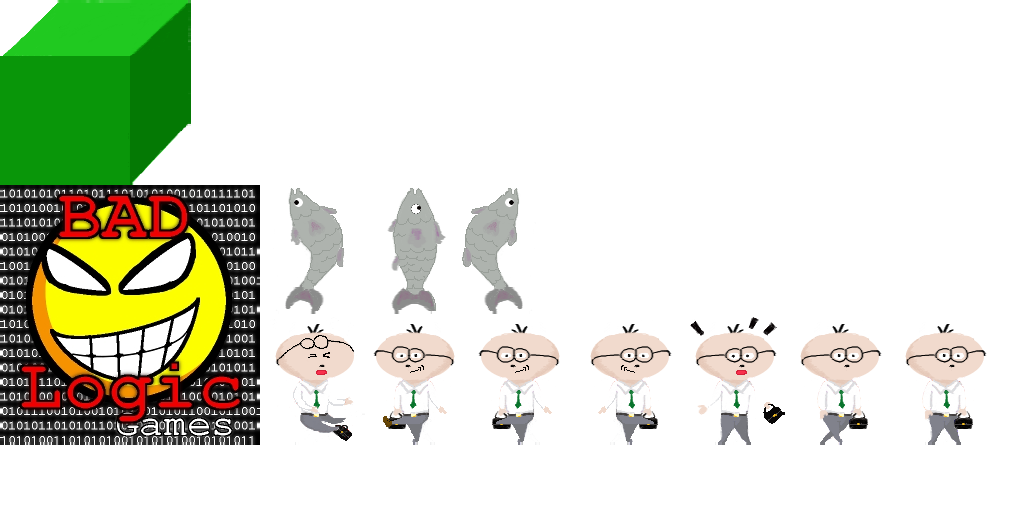
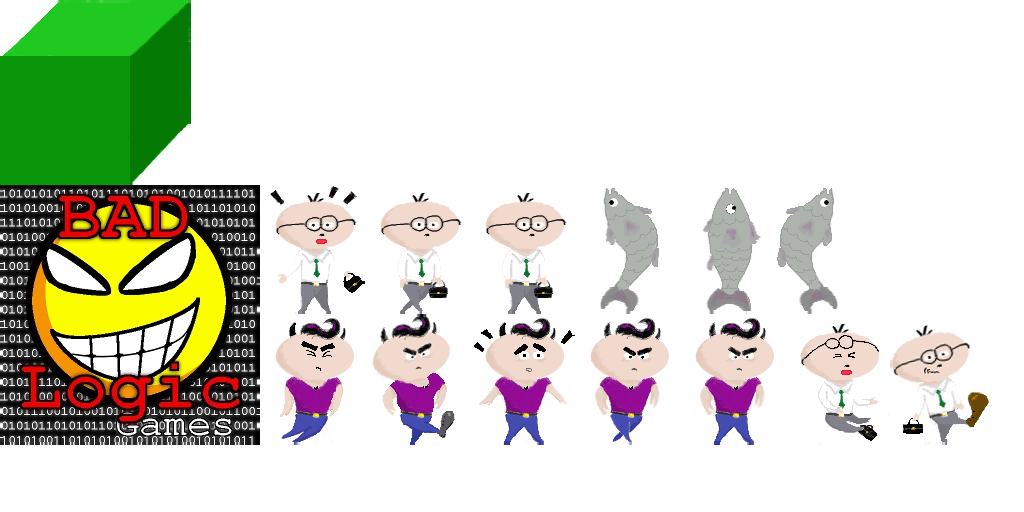
Kicks

Changed region(s): [[0.25, 0.375, 0.9688, 0.875], [0.25, 0.7188, 0.3438, 0.875]]

diff --git a/core/src/com/mygdx/game/model/Player.java b/core/src/com/mygdx/game/model/Player.java
@@ -3,6 +3,7 @@ package com.mygdx.game.model;
 import com.badlogic.gdx.graphics.g2d.Batch;
 import com.badlogic.gdx.graphics.g2d.Sprite;
 import com.badlogic.gdx.graphics.g2d.TextureRegion;
+import com.badlogic.gdx.graphics.glutils.ShapeRenderer;
 import com.badlogic.gdx.math.Intersector;
 import com.badlogic.gdx.math.Rectangle;
 import com.badlogic.gdx.math.Vector2;
@@ -32,14 +33,18 @@ public class Player extends Sprite implements MovementListener {
     private final Vector2 velocity = new Vector2();
     private final Vector2 speed = new Vector2(300, 300);
     private final Vector2 kickDirection = new Vector2(300, 300);
+    private final Vector2 kickedDirection = new Vector2(0,1);
     private final float gravity = 100;
 
     private int state;
     private float stateTime;
+    private boolean flipX = false;
 
-    private Rectangle kickRegion;
     private Rectangle intersection = new Rectangle();
     private Map<Integer, StateAnimation> animations;
+
+    private Rectangle kickBox= new Rectangle();
+    private Rectangle kickedBox= new Rectangle();
 
     public Player(Map<Integer, StateAnimation> animations) {
         super(ImageCache.getTexture("fish"));
@@ -47,7 +52,8 @@ public class Player extends Sprite implements MovementListener {
         this.animations = animations;
 
         setState(STAND);
-        kickRegion = new Rectangle(0, 0, getRegionWidth() / 2, getRegionHeight());
+
+        kickedBox.set(30, 30, 30, 30);
     }
 
     public void update(float delta) {
@@ -61,26 +67,38 @@ public class Player extends Sprite implements MovementListener {
             velocity.x = 0;
             velocity.y = 0;
         } else if (state == KICKED) {
-            velocity.x = 0;
-            velocity.y = 0;
+            velocity.x = kickedDirection.x;
+            velocity.y = kickedDirection.y;
         } else {
             if (movementController.isMovingLeft()) {
+                if (state == STAND) setState(WALK);
                 velocity.x = -speed.x;
                 velocity.y = 0;
+                kickDirection.set(-1, 0);
+                flipX = true;
             } else if (movementController.isMovingRight()) {
+                if (state == STAND) setState(WALK);
                 velocity.x = speed.x;
                 velocity.y = 0;
+                kickDirection.set(1, 0);
+                flipX = false;
             } else if (movementController.isMovingUp()) {
+                if (state == STAND) setState(WALK);
                 velocity.y = speed.y;
                 velocity.x = 0;
+                kickDirection.set(0, 1);
+                flipX = true;
             } else if (movementController.isMovingDown()) {
+                if (state == STAND) setState(WALK);
                 velocity.y = -speed.y;
                 velocity.x = 0;
+                kickDirection.set(0, -1);
+                flipX = false;
             } else {
+                if (state == WALK) setState(STAND);
                 velocity.x = 0;
                 velocity.y = 0;
             }
-            kickDirection.set(velocity.x, velocity.y);
         }
 
         setX(getX() + velocity.x * delta);
@@ -92,6 +110,7 @@ public class Player extends Sprite implements MovementListener {
     public void draw(Batch batch) {
         try {
             setRegion(getStateFrame());
+            setFlip(flipX, false);
         } catch (Exception e) {
             String message = String.format("Failed to obtain animation. State: %d; texture: %s",
                     state,
@@ -147,16 +166,16 @@ public class Player extends Sprite implements MovementListener {
         setState(FALL);
     }
 
-    public void kicked() {
-        setState(KICKED);
-    }
-
     public Vector2 getCollisionPoint() {
         return collisionPoint.set(getX() + getWidth() / 2, getY());
     }
 
     public boolean inRegion(Rectangle kickRegion) {
-        return Intersector.intersectRectangles(getBoundingRectangle(), kickRegion, intersection);
+        return Intersector.intersectRectangles(kickedBox, kickRegion, intersection);
+    }
+
+    private StateAnimation getCurrentAnimation() {
+        return animations.get(animations.containsKey(state) ? state : STAND);
     }
 
     @Override
@@ -167,11 +186,52 @@ public class Player extends Sprite implements MovementListener {
         }
     }
 
-    public Rectangle getKickRegion() {
-        return getBoundingRectangle();
+    public Vector2 getKickDirection() {
+        return kickDirection;
     }
 
-    private StateAnimation getCurrentAnimation() {
-        return animations.get(animations.containsKey(state) ? state : STAND);
+    public Rectangle getKickBox() {
+        if (kickDirection.x == -1) {
+            return kickBox.set(getX() + 13, getY(), 30, 30);
+        } else if (kickDirection.x == 1) {
+            return kickBox.set(getX() + getRegionWidth() - 50, getY(), 30, 30);
+        } else {
+            return kickBox.set(getX() + getRegionWidth() / 2 - 20, getY(), getRegionWidth() / 2 - 10, 20);
+        }
+    }
+
+
+    public Rectangle getKickedBox() {
+        return kickedBox.set(getX() + getRegionWidth() / 2 - 20, getY(), 40, 60);
+    }
+
+    public void kicked(Vector2 kickDirection) {
+        setState(KICKED);
+        if (kickDirection.x == -1) {
+            kickedDirection.x = -700;
+            kickedDirection.y = 0;
+            flipX = true;
+        } else if (kickDirection.x == 1) {
+            kickedDirection.x = 700;
+            kickedDirection.y = 0;
+            flipX = false;
+        } else if (kickDirection.y == 1) {
+            kickedDirection.x = 0;
+            kickedDirection.y = 700;
+            flipX = false;
+        } else if (kickDirection.y == -1) {
+            kickedDirection.x = 0;
+            kickedDirection.y = -700;
+            flipX = true;
+        }
+    }
+
+    public void debug(ShapeRenderer shapes) {
+        getKickBox();
+        getKickedBox();
+        shapes.setColor(1, 0, 0, 1);
+        shapes.rect(kickBox.getX(), kickBox.getY(), kickBox.getWidth(), kickBox.getHeight());
+        shapes.setColor(0, 0, 1, 1);
+        shapes.rect(kickedBox.getX(), kickedBox.getY(), kickedBox.getWidth(), kickedBox.getHeight());
     }
 }

diff --git a/core/src/com/mygdx/game/data/AnimationCache.java b/core/src/com/mygdx/game/data/AnimationCache.java
@@ -14,24 +14,24 @@ public class AnimationCache {
     public static final HashMap<Integer, StateAnimation> FISH_ANIMATION = new HashMap<Integer, StateAnimation>() {{
         put(Player.STAND, new StateAnimation("fish", 3, 0.1f, Animation.PlayMode.LOOP));
         put(Player.FALL, new StateAnimation("fish", 3, 0.1f, Animation.PlayMode.LOOP));
-        put(Player.KICKED, new StateAnimation("fish", 3, 0.1f, Animation.PlayMode.LOOP));
+        put(Player.KICKED, new StateAnimation("fish", 1, 0.2f, Animation.PlayMode.LOOP));
         put(Player.WALK, new StateAnimation("fish", 3, 0.1f, Animation.PlayMode.LOOP));
         put(Player.KICK, new StateAnimation("fish", 3, 0.1f, Animation.PlayMode.LOOP));
     }};
 
     public static final HashMap<Integer, StateAnimation> PLAYER1_ANIMATION = new HashMap<Integer, StateAnimation>() {{
-        put(Player.STAND, new StateAnimation("fish", 3, 0.1f, Animation.PlayMode.LOOP));
-        put(Player.FALL, new StateAnimation("fish", 3, 0.1f, Animation.PlayMode.LOOP));
-        put(Player.KICKED, new StateAnimation("fish", 3, 0.1f, Animation.PlayMode.LOOP));
-        put(Player.WALK, new StateAnimation("fish", 3, 0.1f, Animation.PlayMode.LOOP));
-        put(Player.KICK, new StateAnimation("fish", 3, 0.1f, Animation.PlayMode.LOOP));
+        put(Player.STAND, new StateAnimation("person1-walk", 1, 0, Animation.PlayMode.NORMAL));
+        put(Player.FALL, new StateAnimation("person1-falling", 0, 0, Animation.PlayMode.NORMAL));
+        put(Player.KICKED, new StateAnimation("person1-surprise", 1, 0.2f, Animation.PlayMode.NORMAL));
+        put(Player.WALK, new StateAnimation("person1-walk", 2, 0.1f, Animation.PlayMode.LOOP));
+        put(Player.KICK, new StateAnimation("person1-kick-right-boot", 1, 0.1f, Animation.PlayMode.NORMAL));
     }};
 
     public static final HashMap<Integer, StateAnimation> PLAYER2_ANIMATION = new HashMap<Integer, StateAnimation>() {{
         put(Player.STAND, new StateAnimation("person2-walk", 1, 0, Animation.PlayMode.NORMAL));
         put(Player.FALL, new StateAnimation("person2-falling", 0, 0, Animation.PlayMode.NORMAL));
-        put(Player.KICKED, new StateAnimation("person2-surprise", 1, 0.1f, Animation.PlayMode.NORMAL));
+        put(Player.KICKED, new StateAnimation("person2-surprise", 1, 0.2f, Animation.PlayMode.NORMAL));
         put(Player.WALK, new StateAnimation("person2-walk", 2, 0.1f, Animation.PlayMode.LOOP));
-        put(Player.KICK, new StateAnimation("person2-kick-left-boot", 1, 0.1f, Animation.PlayMode.NORMAL));
+        put(Player.KICK, new StateAnimation("person2-kick-right-boot", 1, 0.1f, Animation.PlayMode.NORMAL));
     }};
 }

diff --git a/core/src/com/mygdx/game/screen/GameScreen.java b/core/src/com/mygdx/game/screen/GameScreen.java
@@ -76,6 +76,8 @@ public class GameScreen extends BaseScreen implements PlayerEventListener {
 
         shapes.begin();
         terrain.debug(shapes);
+        player.debug(shapes);
+        player2.debug(shapes);
         shapes.end();
     }
 
@@ -99,7 +101,7 @@ public class GameScreen extends BaseScreen implements PlayerEventListener {
         player.getMovementController().setMovementListener(player);
         players.add(player);
 
-        player2 = new Player(AnimationCache.PLAYER2_ANIMATION);
+        player2 = new Player(AnimationCache.PLAYER1_ANIMATION);
         player2.setMovementController(new InputController2());
         player2.setPlayerEventListener(this);
         x = MathUtils.random(terrain.getLeftCape(), terrain.getRightCape());
@@ -124,8 +126,8 @@ public class GameScreen extends BaseScreen implements PlayerEventListener {
     public void kick(Player player) {
         for (Player conterPlayer : players) {
             if (conterPlayer != player) {
-                if (conterPlayer.inRegion(player.getKickRegion())) {
-                    conterPlayer.kicked();
+                if (conterPlayer.inRegion(player.getKickBox())) {
+                    conterPlayer.kicked(player.getKickDirection());
                 }
             }
         }
